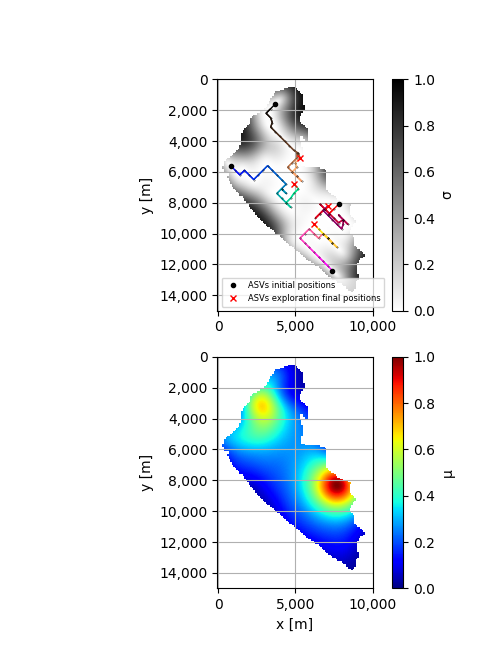
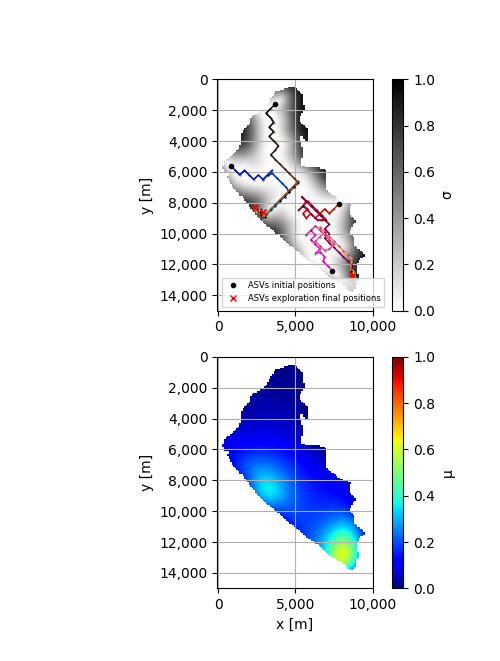
centralized

Changed region(s): [[0.45, 0.5446, 0.72, 0.8775], [0.48, 0.1513, 0.72, 0.4236]]

diff --git a/PSO/pso_function.py b/PSO/pso_function.py
@@ -660,9 +660,9 @@ class PSOEnvironment(gym.Env):
             if self.stage == 'exploration' or self.stage == 'no_exploitation':
                 self.error = mean_squared_error(y_true=self.bench_array, y_pred=self.mu)
             else:
-                if self.final_model == 'samples':
+                if self.final_model == 'centralized':
                     self.final_gaussian()
-                elif self.final_model == 'action_zone':
+                elif self.final_model == 'federated':
                     self.replace_action_zones()
                 self.error = mean_squared_error(y_true=self.bench_array, y_pred=self.final_mu)
         elif self.type_error == 'peaks':
@@ -685,9 +685,9 @@ class PSOEnvironment(gym.Env):
                             break
                     self.dict_error_peak["action_zone%s" % i] = abs(self.max_bench_list[i] - max_az)
             else:
-                if self.final_model == 'samples':
+                if self.final_model == 'centralized':
                     self.final_gaussian()
-                elif self.final_model == 'action_zone':
+                elif self.final_model == 'federated':
                     self.replace_action_zones()
                 for i in range(len(self.center_peaks_bench)):
                     coord = self.center_peaks_bench[i]
@@ -733,9 +733,9 @@ class PSOEnvironment(gym.Env):
                     self.dict_error["action_zone%s" % i] = copy.copy(error_action)
                 self.error = mean_squared_error(y_true=self.action_zone_bench, y_pred=estimated_all)
             else:
-                if self.final_model == 'samples':
+                if self.final_model == 'centralized':
                     self.final_gaussian()
-                elif self.final_model == 'action_zone':
+                elif self.final_model == 'federated':
                     self.replace_action_zones()
                 estimated_all = list()
                 for i in range(len(self.center_peaks_bench)):
@@ -925,7 +925,7 @@ class PSOEnvironment(gym.Env):
                         best.fitness.values = part.fitness.values
             self.dict_global_best["action_zone%s" % i] = best
 
-    def step_stage_exploitation(self, action):
+    def step_stage_exploitation_federated(self, action):
 
         """
         The output "out" of the method "step" is the positions of the particles (drones) after traveling 1000 m
@@ -1034,6 +1034,129 @@ class PSOEnvironment(gym.Env):
             done = False
         return self.state, reward, done, {}
 
+    def step_stage_exploitation_centralized(self, action):
+
+        """
+        The output "out" of the method "step" is the positions of the particles (drones) after traveling 1000 m
+        (scaled).
+
+        method = 0 -> out = scalar vector
+        out = [px_1, py_1, px_2, py_2, px_3, py_3, px_4, py_4, lbx_1, lby_1, lbx_2, lby_2, lbx_3, lby_3, lbx_4, lby_4,
+               gbx, gby, sbx, sgy, mbx, mby]
+               where:
+               px: x coordinate of the drone position
+               py: y coordinate of the drone position
+               lbx: x coordinate of the local best
+               lby: y coordinate of the local best
+               gbx: x coordinate of the global best
+               gby: y coordinate of the global best
+               sbx: x coordinate of the sigma best (maximum uncertainty)
+               sby: y coordinate of the sigma best (maximum uncertainty)
+               mbx: x coordinate of the mean best (maximum contamination)
+               mby: y coordinate of the mean best (maximum contamination)
+
+        method = 1 -> out = images
+
+        :param c1: weight that determinate the importance of the local best component
+        :param c2: weight that determinate the importance of the global best component
+        :param c3: weight that determinate the importance of the maximum uncertainty component
+        :param c4: weight that determinate the importance of the maximum contamination component
+        :param lam: ratio of one of the different length scales [Equation 7
+        (https://doi.org/10.3390/electronics10131605)]
+        :param post_array: refers to the posterior length scale of the surrogate model [Equation 7
+        (https://doi.org/10.3390/electronics10131605)]
+        """
+        dis_steps = 0
+        dist_ant = np.mean(self.distances)
+        self.dist_pre = np.max(self.distances)
+        self.n_data = 0
+        self.f += 1
+
+        while dis_steps < 10:
+
+            previous_dist = np.max(self.distances)
+            asv = 0
+            for part in self.pop:
+                action_zone = int(self.assig_centers[asv])
+                self.obtain_max_centralized(action_zone)
+                self.best = self.dict_global_best["action_zone%s" % action_zone]
+                self.toolbox.update(action[0], action[1], action[2], action[3], part)
+                asv += 1
+
+            for part in self.pop:
+                self.ok, part = self.pso_fitness(part)
+                self.part_ant, self.distances = self.util.distance_part(self.g, self.n_data, part, self.part_ant,
+                                                                        self.distances, self.array_part, dfirst=False)
+
+                self.n_data += 1
+                if self.n_data > self.vehicles - 1:
+                    self.n_data = 0
+
+            if (np.mean(self.distances) - self.last_sample) >= (np.min(self.post_array) * self.lam):
+                self.k += 1
+                self.ok = True
+                self.last_sample = np.mean(self.distances)
+
+                for part in self.pop:
+                    self.ok, part = self.pso_fitness(part)
+
+                    self.post_array = self.gp_regression()
+
+                    self.samples += 1
+
+                    self.n_data += 1
+                    if self.n_data > self.vehicles - 1:
+                        self.n_data = 0
+
+                self.error = self.calculate_error()
+                self.error_data.append(self.error)
+                self.it.append(self.g)
+
+                self.ok = False
+
+            dis_steps = np.mean(self.distances) - dist_ant
+            if np.max(self.distances) == previous_dist:
+                break
+
+            # self.save_data()
+            self.g += 1
+
+        self.return_state()
+
+        reward = self.calculate_reward()
+
+        self.logbook.record(gen=self.g, evals=len(self.pop), **self.stats.compile(self.pop))
+
+        if (self.distances >= self.exploitation_distance).any() or np.max(self.distances) == self.dist_pre:
+            done = True
+        else:
+            done = False
+        return self.state, reward, done, {}
+
+    def obtain_max_centralized(self, action_zone):
+        index = copy.copy(self.dict_index["action_zone%s" % action_zone])
+        mu_max = 0
+        sigma_max = 0
+        for i in range(len(index)):
+            if i == 0:
+                mu_max = self.mu[index[i]]
+                index_max_mu = i
+                sigma_max = self.sigma[index[i]]
+                index_max_sigma = i
+            else:
+                if mu_max < self.mu[index[i]]:
+                    mu_max = self.mu[index[i]]
+                    index_max_mu = i
+                else:
+                    continue
+                if sigma_max < self.sigma[index[i]]:
+                    sigma_max = self.sigma[index[i]]
+                    index_max_sigma = i
+                else:
+                    continue
+        self.mu_best = self.X_test[index[index_max_mu]]
+        self.sigma_best = self.X_test[index[index_max_sigma]]
+
     def return_state(self):
         z = 0
         for part in self.pop:
@@ -1071,7 +1194,10 @@ class PSOEnvironment(gym.Env):
                 self.stage = "exploitation"
         elif self.stage == "exploitation":
             action = np.array([3.6845, 1.5614, 0, 3.1262])
-            self.state, reward, done, dic = self.step_stage_exploitation(action)
+            if self.final_model == 'federated':
+                self.state, reward, done, dic = self.step_stage_exploitation_federated(action)
+            elif self.final_model == 'centralized':
+                self.state, reward, done, dic = self.step_stage_exploitation_centralized(action)
         elif self.stage == "no_exploitation":
             action = action
             self.exploration_distance = self.exploitation_distance
@@ -1080,9 +1206,9 @@ class PSOEnvironment(gym.Env):
                 done = True
         if done:
             if self.stage != 'no_exploitation':
-                if self.final_model == 'samples':
+                if self.final_model == 'centralized':
                     self.final_gaussian()
-                elif self.final_model == 'action_zone':
+                elif self.final_model == 'federated':
                     self.replace_action_zones()
             #self.plot.action_areas(self.dict_coord_, self.dict_impo_, self.centers)
             #self.plot.action_areas(self.dict_coord_bench, self.dict_impo_bench, self.centers_bench)

diff --git a/Comparison/BestMDPI.py b/Comparison/BestMDPI.py
@@ -71,7 +71,7 @@ stage = 'exploration'
 method = 0
 pso = PSOEnvironment(resolution, ys, method, initial_seed=1000000, initial_position=initial_position, vehicles=vehicles,
                      exploration_distance=100, exploitation_distance=200, reward_function='inc_mse',
-                     type_error='all_map', stage=stage, final_model='action_zone')
+                     type_error='all_map', stage=stage, final_model='centralized')
 
 # Gaussian process initialization
 
@@ -83,7 +83,7 @@ error_vec = []
 last_error = []
 
 for i in range(10):
-
+    time_init = time.time()
     done = False
     state = pso.reset()
     R_vec = []
@@ -135,6 +135,7 @@ for i in range(10):
     # conf_total = std_total * 1.96
     print('GT:', i)
     print('MSE:', error_data[-1])
+    print('Time:', time.time() - time_init)
     # print('Bench:', bench_max)
     # print('Std:', std_total)
     # print('Conf:', conf_total)
